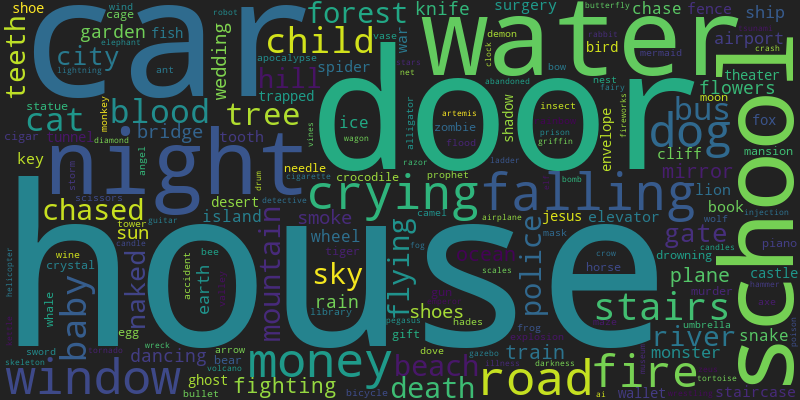
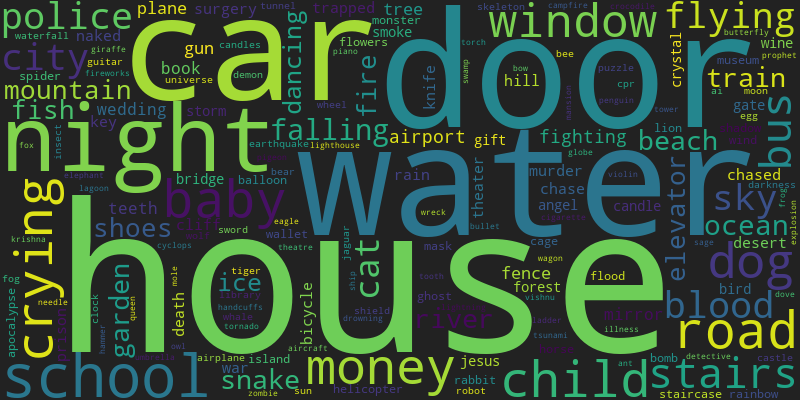
Add files via upload

diff --git a/index.html b/index.html
@@ -1,6 +1,6 @@
 <div style="padding-top: 50px;"></div>
 <h1 style="text-align:center;">Dreamverse State</h1>
-<h2 style="text-align:center;">January 31, 2026</h2>
+<h2 style="text-align:center;">February 28, 2026</h2>
 <div style="padding: 80px;"><html>
     <head>
         <meta charset="utf-8">
@@ -91,8 +91,8 @@
                   
 
                   // parsing and collecting nodes and edges from the python
-                  nodes = new vis.DataSet([{"color": "#6C326B", "font": {"color": "white"}, "id": "new beginnings", "label": "new beginnings", "shape": "dot", "title": "new beginnings"}, {"color": "#6C326B", "font": {"color": "white"}, "id": "nurturing", "label": "nurturing", "shape": "dot", "title": "nurturing"}, {"color": "#6C326B", "font": {"color": "white"}, "id": "responsibility", "label": "responsibility", "shape": "dot", "title": "responsibility"}, {"color": "#A73F3A", "font": {"color": "white"}, "id": "vulnerability", "label": "vulnerability", "shape": "dot", "title": "vulnerability"}, {"color": "#B4A912", "font": {"color": "white"}, "id": "selfdiscovery", "label": "selfdiscovery", "shape": "dot", "title": "selfdiscovery"}, {"color": "#B4A912", "font": {"color": "white"}, "id": "guidance", "label": "guidance", "shape": "dot", "title": "guidance"}, {"color": "#B4A912", "font": {"color": "white"}, "id": "transformation", "label": "transformation", "shape": "dot", "title": "transformation"}, {"color": "#B4A912", "font": {"color": "white"}, "id": "healing", "label": "healing", "shape": "dot", "title": "healing"}, {"color": "#B4A912", "font": {"color": "white"}, "id": "letting go", "label": "letting go", "shape": "dot", "title": "letting go"}, {"color": "#B4A912", "font": {"color": "white"}, "id": "identity", "label": "identity", "shape": "dot", "title": "identity"}, {"color": "#B4A912", "font": {"color": "white"}, "id": "change", "label": "change", "shape": "dot", "title": "change"}, {"color": "#A73F3A", "font": {"color": "white"}, "id": "acceptance", "label": "acceptance", "shape": "dot", "title": "acceptance"}, {"color": "#B4A912", "font": {"color": "white"}, "id": "personal growth", "label": "personal growth", "shape": "dot", "title": "personal growth"}, {"color": "#B4A912", "font": {"color": "white"}, "id": "creativity", "label": "creativity", "shape": "dot", "title": "creativity"}, {"color": "#B4A912", "font": {"color": "white"}, "id": "renewal", "label": "renewal", "shape": "dot", "title": "renewal"}, {"color": "#6C326B", "font": {"color": "white"}, "id": "fear loss", "label": "fear loss", "shape": "dot", "title": "fear loss"}, {"color": "#6C326B", "font": {"color": "white"}, "id": "helplessness", "label": "helplessness", "shape": "dot", "title": "helplessness"}, {"color": "#6C326B", "font": {"color": "white"}, "id": "protection", "label": "protection", "shape": "dot", "title": "protection"}, {"color": "#A73F3A", "font": {"color": "white"}, "id": "overwhelm", "label": "overwhelm", "shape": "dot", "title": "overwhelm"}, {"color": "#A73F3A", "font": {"color": "white"}, "id": "anxiety", "label": "anxiety", "shape": "dot", "title": "anxiety"}, {"color": "#4413F9", "font": {"color": "white"}, "id": "reconnection", "label": "reconnection", "shape": "dot", "title": "reconnection"}, {"color": "#4413F9", "font": {"color": "white"}, "id": "longing", "label": "longing", "shape": "dot", "title": "longing"}, {"color": "#4413F9", "font": {"color": "white"}, "id": "nostalgia", "label": "nostalgia", "shape": "dot", "title": "nostalgia"}, {"color": "#1D815C", "font": {"color": "white"}, "id": "selfworth", "label": "selfworth", "shape": "dot", "title": "selfworth"}, {"color": "#1D815C", "font": {"color": "white"}, "id": "recognition", "label": "recognition", "shape": "dot", "title": "recognition"}, {"color": "#1D815C", "font": {"color": "white"}, "id": "validation", "label": "validation", "shape": "dot", "title": "validation"}, {"color": "#E0C05A", "font": {"color": "white"}, "id": "opportunity", "label": "opportunity", "shape": "dot", "title": "opportunity"}, {"color": "#E0C05A", "font": {"color": "white"}, "id": "abundance", "label": "abundance", "shape": "dot", "title": "abundance"}, {"color": "#A73F3A", "font": {"color": "white"}, "id": "loss control", "label": "loss control", "shape": "dot", "title": "loss control"}, {"color": "#A73F3A", "font": {"color": "white"}, "id": "selfimage", "label": "selfimage", "shape": "dot", "title": "selfimage"}, {"color": "#A73F3A", "font": {"color": "white"}, "id": "selfacceptance", "label": "selfacceptance", "shape": "dot", "title": "selfacceptance"}, {"color": "#A73F3A", "font": {"color": "white"}, "id": "exposure", "label": "exposure", "shape": "dot", "title": "exposure"}, {"color": "#A73F3A", "font": {"color": "white"}, "id": "empathy", "label": "empathy", "shape": "dot", "title": "empathy"}, {"color": "#A73F3A", "font": {"color": "white"}, "id": "intimacy", "label": "intimacy", "shape": "dot", "title": "intimacy"}, {"color": "#4413F9", "font": {"color": "white"}, "id": "loss", "label": "loss", "shape": "dot", "title": "loss"}, {"color": "#6C326B", "font": {"color": "white"}, "id": "communication", "label": "communication", "shape": "dot", "title": "communication"}, {"color": "#6C326B", "font": {"color": "white"}, "id": "boundaries", "label": "boundaries", "shape": "dot", "title": "boundaries"}, {"color": "#A73F3A", "font": {"color": "white"}, "id": "fear anxiety", "label": "fear anxiety", "shape": "dot", "title": "fear anxiety"}, {"color": "#6C326B", "font": {"color": "white"}, "id": "trust", "label": "trust", "shape": "dot", "title": "trust"}, {"color": "#A73F3A", "font": {"color": "white"}, "id": "safety", "label": "safety", "shape": "dot", "title": "safety"}, {"color": "#A73F3A", "font": {"color": "white"}, "id": "abandonment", "label": "abandonment", "shape": "dot", "title": "abandonment"}, {"color": "#A73F3A", "font": {"color": "white"}, "id": "fear", "label": "fear", "shape": "dot", "title": "fear"}, {"color": "#A73F3A", "font": {"color": "white"}, "id": "isolation", "label": "isolation", "shape": "dot", "title": "isolation"}, {"color": "#A73F3A", "font": {"color": "white"}, "id": "connection", "label": "connection", "shape": "dot", "title": "connection"}, {"color": "#A73F3A", "font": {"color": "white"}, "id": "fear judgment", "label": "fear judgment", "shape": "dot", "title": "fear judgment"}, {"color": "#A73F3A", "font": {"color": "white"}, "id": "resilience", "label": "resilience", "shape": "dot", "title": "resilience"}, {"color": "#A73F3A", "font": {"color": "white"}, "id": "betrayal", "label": "betrayal", "shape": "dot", "title": "betrayal"}, {"color": "#6C326B", "font": {"color": "white"}, "id": "support", "label": "support", "shape": "dot", "title": "support"}, {"color": "#6C326B", "font": {"color": "white"}, "id": "privacy", "label": "privacy", "shape": "dot", "title": "privacy"}, {"color": "#A73F3A", "font": {"color": "white"}, "id": "fear unknown", "label": "fear unknown", "shape": "dot", "title": "fear unknown"}, {"color": "#A73F3A", "font": {"color": "white"}, "id": "escape", "label": "escape", "shape": "dot", "title": "escape"}, {"color": "#B4A912", "font": {"color": "white"}, "id": "transition", "label": "transition", "shape": "dot", "title": "transition"}, {"color": "#2442CA", "font": {"color": "white"}, "id": "family", "label": "family", "shape": "dot", "title": "family"}, {"color": "#6C326B", "font": {"color": "white"}, "id": "personal space", "label": "personal space", "shape": "dot", "title": "personal space"}, {"color": "#6C326B", "font": {"color": "white"}, "id": "family dynamics", "label": "family dynamics", "shape": "dot", "title": "family dynamics"}, {"color": "#B4A912", "font": {"color": "white"}, "id": "belonging", "label": "belonging", "shape": "dot", "title": "belonging"}, {"color": "#6C326B", "font": {"color": "white"}, "id": "intrusion", "label": "intrusion", "shape": "dot", "title": "intrusion"}, {"color": "#6C326B", "font": {"color": "white"}, "id": "relationships", "label": "relationships", "shape": "dot", "title": "relationships"}, {"color": "#B4A912", "font": {"color": "white"}, "id": "selfexpression", "label": "selfexpression", "shape": "dot", "title": "selfexpression"}, {"color": "#A73F3A", "font": {"color": "white"}, "id": "trust issues", "label": "trust issues", "shape": "dot", "title": "trust issues"}, {"color": "#4AB12A", "font": {"color": "white"}, "id": "insecurity", "label": "insecurity", "shape": "dot", "title": "insecurity"}, {"color": "#4AB12A", "font": {"color": "white"}, "id": "jealousy", "label": "jealousy", "shape": "dot", "title": "jealousy"}, {"color": "#4413F9", "font": {"color": "white"}, "id": "grief", "label": "grief", "shape": "dot", "title": "grief"}, {"color": "#4413F9", "font": {"color": "white"}, "id": "unresolved emotions", "label": "unresolved emotions", "shape": "dot", "title": "unresolved emotions"}, {"color": "#6C326B", "font": {"color": "white"}, "id": "growth", "label": "growth", "shape": "dot", "title": "growth"}, {"color": "#2442CA", "font": {"color": "white"}, "id": "security", "label": "security", "shape": "dot", "title": "security"}, {"color": "#B4A912", "font": {"color": "white"}, "id": "clarity", "label": "clarity", "shape": "dot", "title": "clarity"}, {"color": "#A73F3A", "font": {"color": "white"}, "id": "desire", "label": "desire", "shape": "dot", "title": "desire"}]);
-                  edges = new vis.DataSet([{"from": "new beginnings", "to": "nurturing", "value": 7}, {"from": "new beginnings", "to": "responsibility", "value": 5}, {"from": "new beginnings", "to": "vulnerability", "value": 4}, {"from": "new beginnings", "to": "selfdiscovery", "value": 4}, {"from": "nurturing", "to": "responsibility", "value": 8}, {"from": "nurturing", "to": "growth", "value": 5}, {"from": "nurturing", "to": "support", "value": 4}, {"from": "responsibility", "to": "transformation", "value": 5}, {"from": "responsibility", "to": "overwhelm", "value": 5}, {"from": "responsibility", "to": "vulnerability", "value": 8}, {"from": "responsibility", "to": "boundaries", "value": 10}, {"from": "responsibility", "to": "family dynamics", "value": 5}, {"from": "responsibility", "to": "protection", "value": 11}, {"from": "responsibility", "to": "anxiety", "value": 4}, {"from": "responsibility", "to": "loss control", "value": 5}, {"from": "responsibility", "to": "relationships", "value": 4}, {"from": "vulnerability", "to": "healing", "value": 6}, {"from": "vulnerability", "to": "transformation", "value": 6}, {"from": "vulnerability", "to": "overwhelm", "value": 4}, {"from": "vulnerability", "to": "loss control", "value": 15}, {"from": "vulnerability", "to": "identity", "value": 5}, {"from": "vulnerability", "to": "selfimage", "value": 12}, {"from": "vulnerability", "to": "acceptance", "value": 5}, {"from": "vulnerability", "to": "selfacceptance", "value": 5}, {"from": "vulnerability", "to": "exposure", "value": 7}, {"from": "vulnerability", "to": "empathy", "value": 4}, {"from": "vulnerability", "to": "intimacy", "value": 7}, {"from": "vulnerability", "to": "anxiety", "value": 19}, {"from": "vulnerability", "to": "loss", "value": 6}, {"from": "vulnerability", "to": "change", "value": 5}, {"from": "vulnerability", "to": "communication", "value": 4}, {"from": "vulnerability", "to": "boundaries", "value": 20}, {"from": "vulnerability", "to": "fear anxiety", "value": 6}, {"from": "vulnerability", "to": "trust", "value": 7}, {"from": "vulnerability", "to": "safety", "value": 5}, {"from": "vulnerability", "to": "abandonment", "value": 4}, {"from": "vulnerability", "to": "fear", "value": 5}, {"from": "vulnerability", "to": "isolation", "value": 5}, {"from": "vulnerability", "to": "connection", "value": 6}, {"from": "vulnerability", "to": "protection", "value": 12}, {"from": "vulnerability", "to": "fear judgment", "value": 6}, {"from": "vulnerability", "to": "resilience", "value": 5}, {"from": "vulnerability", "to": "betrayal", "value": 7}, {"from": "vulnerability", "to": "support", "value": 5}, {"from": "vulnerability", "to": "privacy", "value": 5}, {"from": "vulnerability", "to": "fear unknown", "value": 5}, {"from": "vulnerability", "to": "escape", "value": 4}, {"from": "vulnerability", "to": "transition", "value": 4}, {"from": "vulnerability", "to": "family", "value": 4}, {"from": "vulnerability", "to": "longing", "value": 4}, {"from": "selfdiscovery", "to": "transformation", "value": 6}, {"from": "selfdiscovery", "to": "identity", "value": 4}, {"from": "selfdiscovery", "to": "transition", "value": 4}, {"from": "guidance", "to": "transformation", "value": 4}, {"from": "transformation", "to": "healing", "value": 5}, {"from": "transformation", "to": "letting go", "value": 6}, {"from": "transformation", "to": "identity", "value": 6}, {"from": "transformation", "to": "change", "value": 7}, {"from": "transformation", "to": "acceptance", "value": 4}, {"from": "transformation", "to": "personal growth", "value": 5}, {"from": "transformation", "to": "creativity", "value": 4}, {"from": "transformation", "to": "renewal", "value": 4}, {"from": "identity", "to": "belonging", "value": 5}, {"from": "identity", "to": "selfexpression", "value": 8}, {"from": "identity", "to": "transition", "value": 5}, {"from": "change", "to": "loss", "value": 5}, {"from": "acceptance", "to": "intimacy", "value": 4}, {"from": "personal growth", "to": "recognition", "value": 4}, {"from": "creativity", "to": "selfexpression", "value": 4}, {"from": "renewal", "to": "clarity", "value": 4}, {"from": "fear loss", "to": "helplessness", "value": 8}, {"from": "helplessness", "to": "protection", "value": 4}, {"from": "protection", "to": "boundaries", "value": 8}, {"from": "protection", "to": "family dynamics", "value": 4}, {"from": "protection", "to": "anxiety", "value": 7}, {"from": "overwhelm", "to": "anxiety", "value": 7}, {"from": "anxiety", "to": "boundaries", "value": 9}, {"from": "anxiety", "to": "loss control", "value": 6}, {"from": "anxiety", "to": "communication", "value": 4}, {"from": "reconnection", "to": "longing", "value": 5}, {"from": "reconnection", "to": "nostalgia", "value": 6}, {"from": "longing", "to": "unresolved emotions", "value": 4}, {"from": "longing", "to": "nostalgia", "value": 5}, {"from": "nostalgia", "to": "loss", "value": 4}, {"from": "nostalgia", "to": "unresolved emotions", "value": 4}, {"from": "selfworth", "to": "recognition", "value": 6}, {"from": "selfworth", "to": "validation", "value": 5}, {"from": "opportunity", "to": "abundance", "value": 4}, {"from": "intimacy", "to": "boundaries", "value": 4}, {"from": "intimacy", "to": "desire", "value": 4}, {"from": "intimacy", "to": "connection", "value": 4}, {"from": "loss", "to": "grief", "value": 9}, {"from": "loss", "to": "unresolved emotions", "value": 4}, {"from": "communication", "to": "boundaries", "value": 5}, {"from": "communication", "to": "trust", "value": 4}, {"from": "boundaries", "to": "personal space", "value": 4}, {"from": "boundaries", "to": "family dynamics", "value": 7}, {"from": "boundaries", "to": "belonging", "value": 4}, {"from": "boundaries", "to": "privacy", "value": 6}, {"from": "boundaries", "to": "intrusion", "value": 4}, {"from": "boundaries", "to": "trust", "value": 4}, {"from": "trust", "to": "relationships", "value": 4}, {"from": "betrayal", "to": "trust issues", "value": 4}, {"from": "family", "to": "security", "value": 4}, {"from": "insecurity", "to": "jealousy", "value": 6}, {"from": "grief", "to": "unresolved emotions", "value": 4}]);
+                  nodes = new vis.DataSet([{"color": "#02ADA2", "font": {"color": "white"}, "id": "renewal", "label": "renewal", "shape": "dot", "title": "renewal"}, {"color": "#02ADA2", "font": {"color": "white"}, "id": "transformation", "label": "transformation", "shape": "dot", "title": "transformation"}, {"color": "#D5E727", "font": {"color": "white"}, "id": "uncertainty", "label": "uncertainty", "shape": "dot", "title": "uncertainty"}, {"color": "#D5E727", "font": {"color": "white"}, "id": "isolation", "label": "isolation", "shape": "dot", "title": "isolation"}, {"color": "#D5E727", "font": {"color": "white"}, "id": "change", "label": "change", "shape": "dot", "title": "change"}, {"color": "#E883D1", "font": {"color": "white"}, "id": "vulnerability", "label": "vulnerability", "shape": "dot", "title": "vulnerability"}, {"color": "#9DBA7E", "font": {"color": "white"}, "id": "new beginnings", "label": "new beginnings", "shape": "dot", "title": "new beginnings"}, {"color": "#9DBA7E", "font": {"color": "white"}, "id": "responsibility", "label": "responsibility", "shape": "dot", "title": "responsibility"}, {"color": "#9DBA7E", "font": {"color": "white"}, "id": "nurturing", "label": "nurturing", "shape": "dot", "title": "nurturing"}, {"color": "#02ADA2", "font": {"color": "white"}, "id": "creativity", "label": "creativity", "shape": "dot", "title": "creativity"}, {"color": "#CEC0EB", "font": {"color": "white"}, "id": "betrayal", "label": "betrayal", "shape": "dot", "title": "betrayal"}, {"color": "#CEC0EB", "font": {"color": "white"}, "id": "trust", "label": "trust", "shape": "dot", "title": "trust"}, {"color": "#E883D1", "font": {"color": "white"}, "id": "anxiety", "label": "anxiety", "shape": "dot", "title": "anxiety"}, {"color": "#E883D1", "font": {"color": "white"}, "id": "loss control", "label": "loss control", "shape": "dot", "title": "loss control"}, {"color": "#E883D1", "font": {"color": "white"}, "id": "fear judgment", "label": "fear judgment", "shape": "dot", "title": "fear judgment"}, {"color": "#E883D1", "font": {"color": "white"}, "id": "loss", "label": "loss", "shape": "dot", "title": "loss"}, {"color": "#D5E727", "font": {"color": "white"}, "id": "identity", "label": "identity", "shape": "dot", "title": "identity"}, {"color": "#02ADA2", "font": {"color": "white"}, "id": "personal growth", "label": "personal growth", "shape": "dot", "title": "personal growth"}, {"color": "#02ADA2", "font": {"color": "white"}, "id": "potential", "label": "potential", "shape": "dot", "title": "potential"}, {"color": "#CEC0EB", "font": {"color": "white"}, "id": "support", "label": "support", "shape": "dot", "title": "support"}, {"color": "#9DBA7E", "font": {"color": "white"}, "id": "family dynamics", "label": "family dynamics", "shape": "dot", "title": "family dynamics"}, {"color": "#9DBA7E", "font": {"color": "white"}, "id": "protection", "label": "protection", "shape": "dot", "title": "protection"}, {"color": "#9DBA7E", "font": {"color": "white"}, "id": "boundaries", "label": "boundaries", "shape": "dot", "title": "boundaries"}, {"color": "#E883D1", "font": {"color": "white"}, "id": "judgment", "label": "judgment", "shape": "dot", "title": "judgment"}, {"color": "#E883D1", "font": {"color": "white"}, "id": "seeking support", "label": "seeking support", "shape": "dot", "title": "seeking support"}, {"color": "#CEC0EB", "font": {"color": "white"}, "id": "intimacy", "label": "intimacy", "shape": "dot", "title": "intimacy"}, {"color": "#E883D1", "font": {"color": "white"}, "id": "exposure", "label": "exposure", "shape": "dot", "title": "exposure"}, {"color": "#D5E727", "font": {"color": "white"}, "id": "acceptance", "label": "acceptance", "shape": "dot", "title": "acceptance"}, {"color": "#E883D1", "font": {"color": "white"}, "id": "helplessness", "label": "helplessness", "shape": "dot", "title": "helplessness"}, {"color": "#E883D1", "font": {"color": "white"}, "id": "healing", "label": "healing", "shape": "dot", "title": "healing"}, {"color": "#E883D1", "font": {"color": "white"}, "id": "social anxiety", "label": "social anxiety", "shape": "dot", "title": "social anxiety"}, {"color": "#E883D1", "font": {"color": "white"}, "id": "selfimage", "label": "selfimage", "shape": "dot", "title": "selfimage"}, {"color": "#CC607A", "font": {"color": "white"}, "id": "selfworth", "label": "selfworth", "shape": "dot", "title": "selfworth"}, {"color": "#CC607A", "font": {"color": "white"}, "id": "recognition", "label": "recognition", "shape": "dot", "title": "recognition"}, {"color": "#02ADA2", "font": {"color": "white"}, "id": "selfdiscovery", "label": "selfdiscovery", "shape": "dot", "title": "selfdiscovery"}, {"color": "#D5E727", "font": {"color": "white"}, "id": "transition", "label": "transition", "shape": "dot", "title": "transition"}, {"color": "#D5E727", "font": {"color": "white"}, "id": "belonging", "label": "belonging", "shape": "dot", "title": "belonging"}, {"color": "#CC607A", "font": {"color": "white"}, "id": "authority", "label": "authority", "shape": "dot", "title": "authority"}]);
+                  edges = new vis.DataSet([{"from": "renewal", "to": "transformation", "value": 5}, {"from": "transformation", "to": "personal growth", "value": 8}, {"from": "transformation", "to": "selfdiscovery", "value": 4}, {"from": "uncertainty", "to": "isolation", "value": 4}, {"from": "uncertainty", "to": "change", "value": 4}, {"from": "isolation", "to": "vulnerability", "value": 4}, {"from": "change", "to": "transition", "value": 5}, {"from": "change", "to": "identity", "value": 6}, {"from": "vulnerability", "to": "betrayal", "value": 4}, {"from": "vulnerability", "to": "anxiety", "value": 16}, {"from": "vulnerability", "to": "loss control", "value": 12}, {"from": "vulnerability", "to": "responsibility", "value": 9}, {"from": "vulnerability", "to": "judgment", "value": 4}, {"from": "vulnerability", "to": "seeking support", "value": 4}, {"from": "vulnerability", "to": "protection", "value": 7}, {"from": "vulnerability", "to": "boundaries", "value": 12}, {"from": "vulnerability", "to": "fear judgment", "value": 6}, {"from": "vulnerability", "to": "intimacy", "value": 6}, {"from": "vulnerability", "to": "exposure", "value": 6}, {"from": "vulnerability", "to": "trust", "value": 7}, {"from": "vulnerability", "to": "acceptance", "value": 5}, {"from": "vulnerability", "to": "helplessness", "value": 4}, {"from": "vulnerability", "to": "healing", "value": 4}, {"from": "vulnerability", "to": "identity", "value": 7}, {"from": "vulnerability", "to": "social anxiety", "value": 4}, {"from": "vulnerability", "to": "selfimage", "value": 4}, {"from": "new beginnings", "to": "responsibility", "value": 4}, {"from": "new beginnings", "to": "nurturing", "value": 5}, {"from": "new beginnings", "to": "creativity", "value": 4}, {"from": "responsibility", "to": "anxiety", "value": 7}, {"from": "responsibility", "to": "nurturing", "value": 4}, {"from": "responsibility", "to": "support", "value": 4}, {"from": "responsibility", "to": "family dynamics", "value": 6}, {"from": "responsibility", "to": "protection", "value": 6}, {"from": "responsibility", "to": "boundaries", "value": 5}, {"from": "creativity", "to": "personal growth", "value": 5}, {"from": "creativity", "to": "potential", "value": 4}, {"from": "betrayal", "to": "trust", "value": 5}, {"from": "trust", "to": "intimacy", "value": 5}, {"from": "trust", "to": "boundaries", "value": 6}, {"from": "anxiety", "to": "loss control", "value": 7}, {"from": "anxiety", "to": "fear judgment", "value": 5}, {"from": "anxiety", "to": "loss", "value": 5}, {"from": "anxiety", "to": "identity", "value": 4}, {"from": "loss", "to": "helplessness", "value": 4}, {"from": "identity", "to": "transition", "value": 5}, {"from": "identity", "to": "acceptance", "value": 4}, {"from": "identity", "to": "boundaries", "value": 5}, {"from": "identity", "to": "belonging", "value": 4}, {"from": "support", "to": "intimacy", "value": 4}, {"from": "protection", "to": "boundaries", "value": 4}, {"from": "selfworth", "to": "recognition", "value": 5}, {"from": "recognition", "to": "authority", "value": 4}]);
 
                   nodeColors = {};
                   allNodes = nodes.get({ returnType: "Object" });
@@ -193,139 +193,50 @@
     
 <br>
 <h1>Initial Reflection</h1>
-<h2>
-Across Dreamverse, the same tension keeps showing up: people want closeness, safety, and a fresh start—but they’re also wary of being exposed, controlled, or left alone with the weight of responsibility.<br><br>
-A lot of these dreams read like the psyche doing boundary-work: “How close is safe?” “Who do I trust?” “What do I owe others?” “What do I owe myself?” And underneath that: “If I change, will I still belong?”<br><br>
-On the cultural level, this fits the era: always-connected lives, thin privacy, high performance pressure, unstable institutions, and relationships carrying more emotional load than they used to. Dreams mirror that strain—and also point toward a simpler truth: the nervous system relaxes when your limits are respected and your needs are spoken plainly.
-</h2>
+<h2>These dream constellations circle around a few core human tensions: becoming someone new, trying to belong while changing, fearing exposure, learning who to trust, carrying responsibility, and asking whether one matters. Put together, they suggest a psyche under pressure but still moving toward integration. Many Seers seem to be working through a familiar modern problem: life keeps changing faster than identity can stabilize. And so dreams become a place where the mind tests new forms of selfhood, replays threats, and searches for sturdier ground. There is also a wider social pattern here. These themes fit a culture shaped by instability, visibility, fractured trust, and high pressure to prove oneself. The dreams do not just reflect private pain. They also reflect the emotional climate people are living in.</h2>
 <br>
 
 <details>
-  <summary><h1>1 — The Protected Threshold</h1></summary>
-  <h2>
-This constellation sits right at the doorway between “my life” and “our life.” New beginnings show up with responsibility, family dynamics, and a need for protection—but also with intrusion and fear of loss. It’s the psyche tracking risk: if I open the door to connection, will I lose my space, my privacy, my autonomy?<br><br>
-Psychologically, these dreams often come from a real-life situation where care is needed (child, partner, family, team) and the Seer is trying to do it “right.” The catch is that nurturing without boundaries becomes depletion, resentment, or helplessness. Communication and trust are here because they’re the only way out: you can’t protect everything by controlling it. You protect it by naming limits and asking for support.<br><br>
-Action prompts for Seers:<br>
-• Where is “helping” turning into “carrying”? What would a fairer division look like?<br>
-• What’s one boundary you keep implying, but haven’t stated directly?<br>
-• What kind of support do you actually need—practical help, reassurance, privacy, or shared responsibility?<br>
-• If you fear loss, what exactly feels threatened: the relationship, your freedom, your identity, your safety?<br><br>
-Cultural echo: blurred boundaries are normal now—family, work, and devices all “intrude.” These dreams push back: personal space isn’t selfish; it’s infrastructure for stable relationships.
-  </h2>
+  <summary><h1>The Becoming Self</h1></summary>
+  <h2>This constellation links renewal, transformation, creativity, personal growth, potential, and self-discovery. Psychologically, it points to an inner life that is not finished with itself. These dreams often appear when an old identity is thinning out and something new wants room to emerge. Creativity matters here because the psyche does not only heal by understanding; it also heals by making. That can mean making art, making choices, making a different life. But there is a tension inside this cluster too: potential can inspire, but it can also become a burden if a person feels they should already be more evolved, more talented, or more certain. The useful question is not “What could I become in theory?” but “What part of me is asking to be lived now?” In practice, Seers might ask: What am I outgrowing? What keeps returning as a wish, image, or impulse? What small act would make my current life more honest? At a cultural level, this constellation reflects a time when many people are trying to reinvent themselves repeatedly. That can be liberating. But it can also leave people exhausted. Dreams here may be asking for growth with roots, not just endless reinvention.</h2>
 </details>
 <br>
 
 <details>
-  <summary><h1>5 — Exposure vs. Attachment</h1></summary>
-  <h2>
-This is the high-voltage cluster: vulnerability, intimacy, empathy, and desire on one side; anxiety, loss of control, fear of judgment, betrayal, abandonment, and isolation on the other. It’s the nervous system trying to decide whether closeness is safe—or whether closeness equals danger.<br><br>
-These dreams often surface when someone is stretching toward a deeper bond, or recovering from a rupture. “Self-image” and “self-acceptance” matter here because exposure isn’t just being seen by others—it’s being seen by yourself, without armor. When that’s hard, the psyche tries escape, control, or withdrawal. The deeper need is safety that doesn’t require hiding.<br><br>
-Action prompts for Seers:<br>
-• What do you fear would happen if people saw the real version of you—specifically?<br>
-• In your closest relationships, what’s the early warning sign that you’re about to shut down or cling?<br>
-• What is “control” trying to protect you from: shame, rejection, chaos, dependence, or grief?<br>
-• Can you name one small, voluntary exposure this week (a truth, a request, a boundary) that builds trust without flooding you?<br><br>
-Cultural echo: constant visibility (social media, metrics, surveillance, reputational fear) makes everyone feel “on stage.” No wonder the dreamscape is full of judgment, exposure, and escape. This constellation is asking for a new norm: consent-based closeness, repair after rupture, and self-acceptance that doesn’t depend on performance.
-  </h2>
+  <summary><h1>Between Worlds</h1></summary>
+  <h2>This cluster brings together uncertainty, isolation, change, identity, acceptance, transition, and belonging. It has the feeling of standing in a doorway for too long. Something is shifting, but the new shape of life is not secure yet. Psychologically, this often marks liminal periods: migration, breakup, grief, career change, illness, spiritual reorientation, or simply aging into a different version of oneself. Isolation appears because transition can separate a person from old roles before new ones have fully formed. Belonging appears because identity is never only internal; it is also confirmed or challenged by the groups around us. The task here is not to force certainty too early. It is to stay in contact with oneself while the ground is moving. Seers might ask: Where am I demanding premature clarity? What am I trying to belong to that no longer fits? Who sees the version of me that is trying to emerge? Socially, this constellation mirrors a world in which many people live in prolonged transition. Careers are unstable, places change, communities fragment, and identities are negotiated in public. These dreams may be showing the emotional cost of that instability, but also the possibility that belonging can be rebuilt on truer terms.</h2>
 </details>
 <br>
 
 <details>
-  <summary><h1>3 — The Shape-Shifter’s Path</h1></summary>
-  <h2>
-This is a healthier engine of change: self-discovery, guidance, transformation, healing, letting go, renewal, clarity, creativity, self-expression, belonging. It’s the psyche moving from “Who am I supposed to be?” to “Who am I becoming?”<br><br>
-When this constellation appears, it often means the Seer is ready to drop an old skin. But “belonging” sits inside it for a reason: growth costs something. If you change, you may outgrow a role, a community, or a narrative. Guidance here can be internal (intuition, values) or relational (mentors, allies). The point is not reinvention for its own sake—it’s alignment. Clarity arrives when self-expression stops being a negotiation and starts being a practice.<br><br>
-Action prompts for Seers:<br>
-• What are you trying to “let go of” that you secretly still use for identity (status, coping habit, old grievance, old relationship)?<br>
-• Where do you feel most “yourself” lately—and what conditions make that possible?<br>
-• If you had to choose one form of self-expression to take seriously for 30 days, what would it be?<br>
-• What does belonging mean now: being liked, being understood, or being able to show up as you are?<br><br>
-Cultural echo: we’re living through rapid transitions—work, relationships, identity, place. This constellation is the psyche’s antidote to fragmentation: integrate the new self through creative action and honest relationships.
-  </h2>
+  <summary><h1>The Exposed Self</h1></summary>
+  <h2>This is one of the more charged constellations: vulnerability, anxiety, loss of control, fear of judgment, loss, judgment, seeking support, exposure, helplessness, healing, social anxiety, and self-image. The emotional logic is clear. A part of the psyche feels seen without feeling safe. These dreams often gather around shame, performance pressure, fear of failure, or old experiences of being criticized, abandoned, or misunderstood. Loss of control and exposure are especially important together. They suggest a fear not just of danger, but of being witnessed in one’s weakness. Yet healing is also in this cluster, which means the dreams are not only replaying injury. They may be testing whether support is possible now. The practical work here is gentle but serious: notice where self-protection has become self-erasure. Notice where the inner judge speaks in other people’s voices. And ask: Who do I become when I expect criticism? What do I hide because I assume it will be used against me? What kind of support actually helps me regulate instead of just making me feel dependent? At the social level, this constellation fits a culture of surveillance, comparison, and performance. Many people are visible all the time and known very little. No wonder the psyche dreams of exposure. But the presence of healing suggests another possibility: being seen without humiliation may be one of the deepest modern needs.</h2>
 </details>
 <br>
 
 <details>
-  <summary><h1>4 — The Unfinished Goodbye</h1></summary>
-  <h2>
-Reconnection, longing, nostalgia, loss, grief, unresolved emotions. This is the psyche circling something it can’t neatly close. Often it’s not just missing a person or time—it’s missing who you were back then, or what you hoped would happen.<br><br>
-These dreams can be gentle or piercing, but the function is similar: they’re asking for completion. Not “move on,” but metabolize. Sometimes the unresolved piece is a conversation that never happened, an apology not given, a love that wasn’t safe, a version of life that didn’t get to exist. Reconnection in dreams can be an attempt to retrieve something valuable: tenderness, simplicity, trust, or a sense of home.<br><br>
-Action prompts for Seers:<br>
-• What’s the specific grief: the person, the time, the lost future, or the lost self?<br>
-• If you could say one sentence you never said, what is it?<br>
-• What part of the past are you trying to bring forward in a healthier form today?<br>
-• What would “honoring” the loss look like without reopening the wound every week?<br><br>
-Cultural echo: we rarely have clean endings now—relationships fade, communities scatter, people relocate, attention fragments. Dreams become the place where the psyche insists: “This mattered. Don’t treat it like disposable.”
-  </h2>
+  <summary><h1>The Threshold of Care</h1></summary>
+  <h2>New beginnings, responsibility, nurturing, family dynamics, protection, and boundaries form a constellation about care under pressure. This often appears when something new is entering life that needs tending: a child, a relationship, a project, a healing process, or a more vulnerable part of the self. Psychologically, the key tension is that love and burden are close together here. To nurture is meaningful. But responsibility can easily slide into overfunctioning, control, or guilt. Boundaries matter because protection is not the same as possession. Family dynamics suggest that current responsibilities may also reactivate old roles: rescuer, parentified child, peacemaker, outsider. Seers might ask: What am I caring for, and what is that care costing me? Where am I protecting life, and where am I trying to manage what I cannot control? What boundary would make care more sustainable? Culturally, this cluster speaks to a broader strain many people feel: care work is essential, but often under-supported and unevenly distributed. Dreams in this constellation may be registering the hidden labor of holding others together while also asking whether the dreamer knows how to include themselves in the circle of care.</h2>
 </details>
 <br>
 
 <details>
-  <summary><h1>0 — The Mirror That Wants an Answer</h1></summary>
-  <h2>
-Self-worth, recognition, validation. A small cluster, but powerful—because it often drives the rest. When validation is scarce, the psyche searches for proof: “Do I matter?” “Did you see what I did?” “Am I real to you?”<br><br>
-This constellation can show up when external feedback is unpredictable (work, relationships, social platforms) or when early life taught the Seer to earn safety through achievement. The risk is outsourcing self-worth to other people’s attention. The opportunity is learning the difference between healthy recognition (connection) and validation addiction (dependence).<br><br>
-Action prompts for Seers:<br>
-• What kind of validation are you chasing: competence, attractiveness, morality, uniqueness, usefulness?<br>
-• If nobody praised you for a month, what part of you would feel erased?<br>
-• What’s one internal metric you respect more than other people’s approval?<br><br>
-Cultural echo: a lot of modern life turns worth into a scoreboard. These dreams ask for a quieter foundation: stable self-regard that doesn’t spike and crash with feedback.
-  </h2>
+  <summary><h1>Wounds of Trust</h1></summary>
+  <h2>Betrayal, trust, support, and intimacy create a compact but deep constellation. Psychologically, this is about the nervous system learning from relationship. Betrayal leaves a mark because it does not only hurt; it reorganizes expectation. After betrayal, intimacy can feel dangerous, support can feel unreliable, and trust can split into two false choices: total guardedness or blind surrender. Dreams in this cluster often signal that relational memory is active. The psyche may be testing who is safe, what closeness means now, and whether connection can exist without self-betrayal. The useful task is to move from global suspicion to finer discernment. Seers might ask: What do I now assume about people because of one wound or one period of life? What signs of reliability do I ignore? What signs of danger do I override? What does trust look like in steps rather than leaps? Socially, this constellation resonates with a wider erosion of trust in institutions, communities, and relationships. When people live in environments where loyalty feels unstable, intimacy becomes harder everywhere. These dreams may be trying to rebuild the inner conditions for trust: not innocence, but wiser contact.</h2>
 </details>
 <br>
 
 <details>
-  <summary><h1>2 — The Open Door (Abundance & Opportunity)</h1></summary>
-  <h2>
-Opportunity and abundance can look like pure optimism, but in dreams it often means: “There is more available than you’re allowing yourself to see.” Sometimes the psyche offers abundance right when the conscious mind is stuck in scarcity, fear, or over-control.<br><br>
-This constellation can also be a test: can you receive without guilt? Can you choose without self-sabotage? Opportunity requires agency; abundance requires trust that you won’t be punished for wanting more.<br><br>
-Action prompts for Seers:<br>
-• What do you reject too quickly because it feels “too good,” “too much,” or “not for me”?<br>
-• If abundance arrived, what would be the first problem it creates for you (responsibility, envy, exposure, choice)?<br>
-• What is one concrete door you can walk through this week—one email, one application, one conversation, one practice?<br><br>
-Cultural echo: we swing between doom and hustle. This constellation is neither. It’s the psyche saying: widen your aperture; stop living like the world is already closed.
-  </h2>
-</details>
-<br>
-
-<details>
-  <summary><h1>6 — The Family Fortress</h1></summary>
-  <h2>
-Family and security: the psyche seeking a base. This can mean literal family, chosen family, or the inner sense that you’re not alone. When it’s strong, it supports exploration and growth. When it’s brittle, it becomes anxiety, control, or retreat.<br><br>
-This constellation often appears in times of change: relocation, new work, relationship shifts, parenting, illness, financial uncertainty. The psyche checks: “Where is my safe place? Who is with me?”<br><br>
-Action prompts for Seers:<br>
-• What does security mean to you right now: money, routine, people, privacy, competence, health?<br>
-• Which part of your “fortress” is missing: stable habits, reliable allies, a home base, or clear agreements?<br>
-• What’s one small ritual that makes your nervous system feel housed (sleep, food, movement, tidying, message to a friend)?<br><br>
-Cultural echo: institutions feel shaky; people rely more on close ties. These dreams highlight the value—and the burden—of family as the last safety net.
-  </h2>
-</details>
-<br>
-
-<details>
-  <summary><h1>7 — The Green-Eyed Signal</h1></summary>
-  <h2>
-Insecurity and jealousy are not “bad themes.” They’re signals. Usually they point to fear of replacement, fear of inadequacy, fear of losing status or love. Jealousy often arrives when someone wants something—attention, closeness, respect, freedom—but doesn’t feel entitled to ask for it directly.<br><br>
-This constellation can also show up during personal growth: when a Seer is leveling up, they become more sensitive to comparison and social rank. Or when trust is shaky, the mind tries to scan for threats.<br><br>
-Action prompts for Seers:<br>
-• What exactly are you jealous of: the person, the attention, the ease, the confidence, the freedom, the future?<br>
-• What request are you avoiding because it feels needy or risky?<br>
-• If you treat jealousy as information (not a command), what does it inform you to build—skills, boundaries, self-worth, or honest conversation?<br><br>
-Cultural echo: comparison is everywhere, and insecurity is profitable for platforms and markets. Dreams push it back into human scale: jealousy is often a call to clarity, not conflict.
-  </h2>
+  <summary><h1>The Mirror of Worth</h1></summary>
+  <h2>Self-worth, recognition, and authority form a constellation about value and permission. Psychologically, this cluster asks a blunt question: Do I feel real only when someone with power confirms me? Recognition is not trivial. We all need to be seen. But when self-worth depends too heavily on authority, a person can become divided between inner truth and outer approval. Dreams here may surface old hierarchies: parents, teachers, bosses, experts, judges, audiences. They may also reflect a growing conflict between earned authority and imposed authority. The task is not to reject recognition, but to loosen its monopoly. Seers might ask: Whose approval still governs me? Where do I hand over my authority too quickly? What evidence of my value do I dismiss because it did not come from the right person? And where do I confuse rank with wisdom? At a societal level, this constellation fits an era obsessed with status signals, metrics, followers, titles, and public validation. These dreams may be trying to restore a more grounded form of worth: one that can receive recognition without becoming dependent on it.</h2>
 </details>
 <br>
 
 <details>
   <summary><h1>Final Reflections</h1></summary>
-<h2>
-If you step back, you can see a map. Constellation 1 and 6 are about safety and structure (home base, boundaries, protection). Constellation 5 and 7 are about threat and attachment (exposure, jealousy, abandonment, trust). Constellation 3 is the growth arc (transformation, clarity, renewal). Constellation 4 is the grief arc (nostalgia, unfinished endings). And constellation 0 and 2 are like two “control knobs” that change everything: self-worth and the ability to receive opportunity.<br><br>
-Try this: pick the constellation that feels most “alive” this week. Don’t interpret it as fate. Interpret it as a signal from your system about what needs attention—limits, truth, repair, or change. Then notice which constellation sits closest to it in your own life. Sometimes growth (3) is blocked by unresolved grief (4). Sometimes intimacy fear (5) is really a self-worth wound (0). Sometimes a new beginning (1) requires security (6) before it becomes real.<br><br>
-Dreamverse isn’t telling you what to do. It’s showing you where your psyche is asking for a more honest arrangement.
-</h2>
+<h2>Seen together, these constellations tell a coherent story. People are trying to grow, but growth disturbs identity. They are trying to belong, but belonging is fragile. They want intimacy, but trust has been wounded. They want to care, but care needs boundaries. They want to be seen, but fear judgment. And underneath much of it is a simple human need: to become more fully oneself without losing safety, love, or dignity. For Seers, the main invitation is to notice which constellation feels most alive right now. Which one feels like an old wound? Which one feels like the next step? And which constellations sit close together in your own inner map? Sometimes the path is not from fear to fearlessness, but from fear to support. Not from uncertainty to certainty, but from uncertainty to a more honest belonging. Dreams rarely hand over final answers. But they do show where the psyche is working. And that is often the real beginning.</h2>
     </details>
 <br>
-
 
 
   